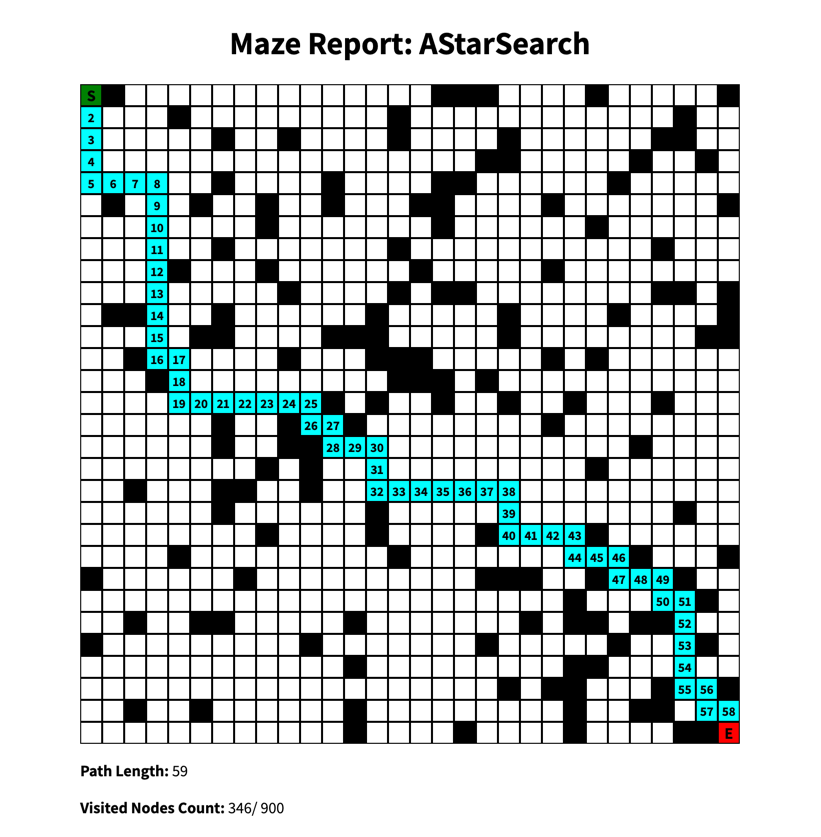
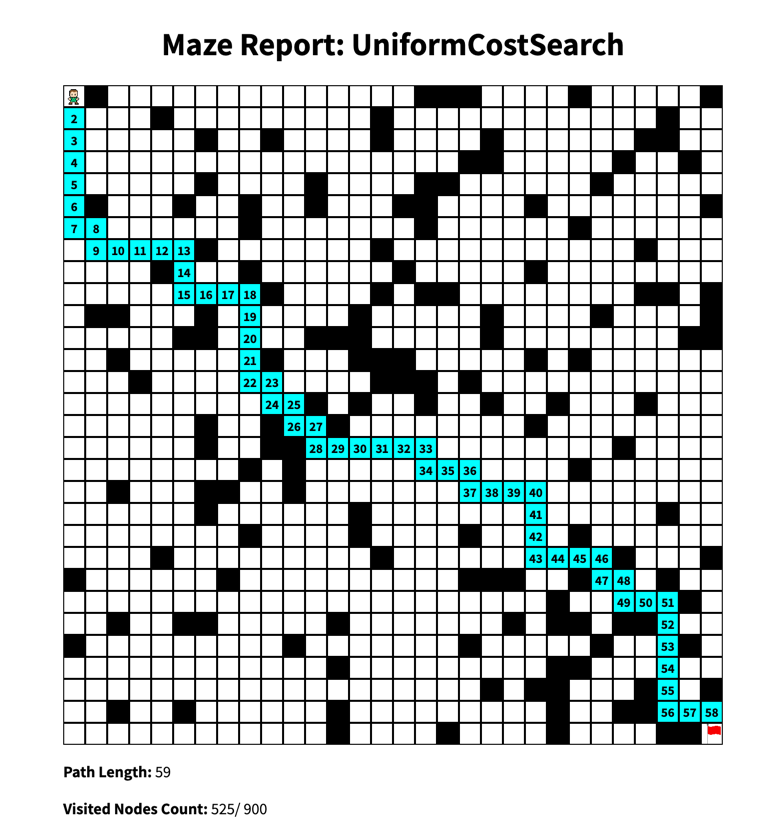
add sprites

diff --git a/reports/report.template.html b/reports/report.template.html
@@ -38,11 +38,17 @@
         }
 
         .maze-node.start {
-            background: green;
+            background-image: url(../static/player.png);
+            background-size: contain;
+            background-repeat: no-repeat;
+            background-position: 2px;
         }
 
         .maze-node.end {
-            background: red;
+            background-image: url(../static/goal.png);
+            background-size: contain;
+            background-repeat: no-repeat;
+            background-position: 2px;
         }
 
         .maze-node.solution {
@@ -103,12 +109,10 @@
 
         if (node.x === start.x && node.y === start.y){
             nodeElement.classList.add("start");
-            nodeElement.innerHTML = "<strong class='point'>S</strong>";
         }
 
         if (node.x === end.x && node.y === end.y){
             nodeElement.classList.add("end");
-            nodeElement.innerHTML = "<strong class='point'>E</strong>";
         }
 
         let size = 40;

diff --git a/README.md b/README.md
@@ -4,6 +4,10 @@
 This project provides a set of search algorithms to solve a maze. The maze is represented as a grid, where each cell can either be a walkable path or an obstacle. The goal is to find a path from a starting point to an end point.
 ![Maze](static/maze.png)
 
+## Targets
+- Start <img src="static/player.png" width="20px" height="20px" style="position:relative; top: 4px">
+- End <img src="static/goal.png" width="20px" height="20px" style="position:relative; top: 4px">
+
 ## Features
 
 - **Search Algorithms**: The project includes multiple search algorithms:
